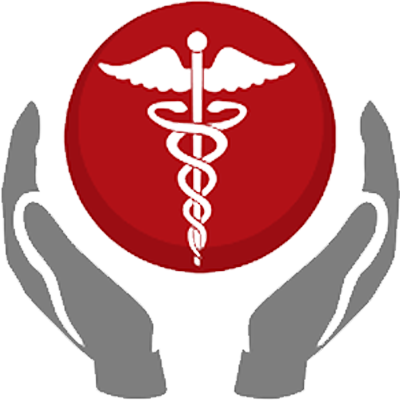
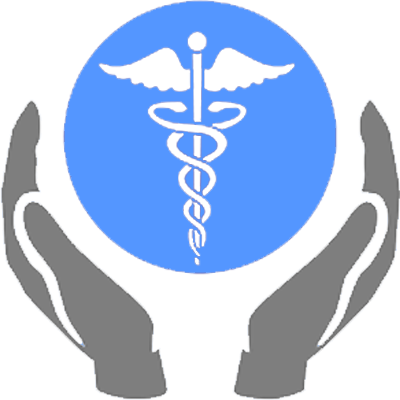
Modificacion de imagenes, colores y estilo de aplicacion de medico, url de api en hosting

diff --git a/lib/screens/splash/components/body.dart b/lib/screens/splash/components/body.dart
@@ -17,18 +17,16 @@ class _BodyState extends State<Body> {
   int currentPage = 0;
   List<Map<String, String>> splashData = [
     {
-      "text": "Nuestros servicios desde cualquier lugar!",
-      "image": "assets/images/splash_1.png"
+      "text": "Comunicate con tus pacientes",
+      "image": "assets/images/splash_3.png"
     },
     {
-      "text":
-          "Teleconsultas desde la comodidad de tu hogar\ncon nuestros mejores profesionales",
+      "text": "Teleconsultas y chats desde\nel lugar que desees",
       "image": "assets/images/splash_2.png"
     },
     {
-      "text":
-          "Separa citas para nuestros laboratorios. \nOlvidate de las colas!",
-      "image": "assets/images/splash_3.png"
+      "text": "Adjunta recetas medicas \ndesde la app movil.",
+      "image": "assets/images/splash_1.png"
     },
   ];
   @override
@@ -93,7 +91,7 @@ class _BodyState extends State<Body> {
       height: 6,
       width: currentPage == index ? 20 : 6,
       decoration: BoxDecoration(
-        color: currentPage == index ? kPrimaryColor : HexColor("#cf1927"),
+        color: currentPage == index ? kPrimaryColor : HexColor("#3f71bf"),
         borderRadius: BorderRadius.circular(3),
       ),
     );

diff --git a/lib/constants.dart b/lib/constants.dart
@@ -2,7 +2,7 @@ import 'package:appmedicolaluz/helper/hexcolors.dart';
 import 'package:appmedicolaluz/size_config.dart';
 import 'package:flutter/material.dart';
 
-Color kPrimaryColor = HexColor("#cf1927");
+Color kPrimaryColor = HexColor("#5496ff");
 const kPrimaryLightColor = Color(0xFFFFECDF);
 const kPrimaryGradientColor = LinearGradient(
   begin: Alignment.topLeft,

diff --git a/lib/utils/config.dart b/lib/utils/config.dart
@@ -1,5 +1,5 @@
 /*API DATA*/
-String urlApi = '27bab5f6e792.ngrok.io';
+String urlApi = 'laluz.mgmingenieros.com';
 String versionApi = 'api/v1';
 Map<String, String> headersApi = {
   'Content-Type': 'application/json;charset=UTF-8',
